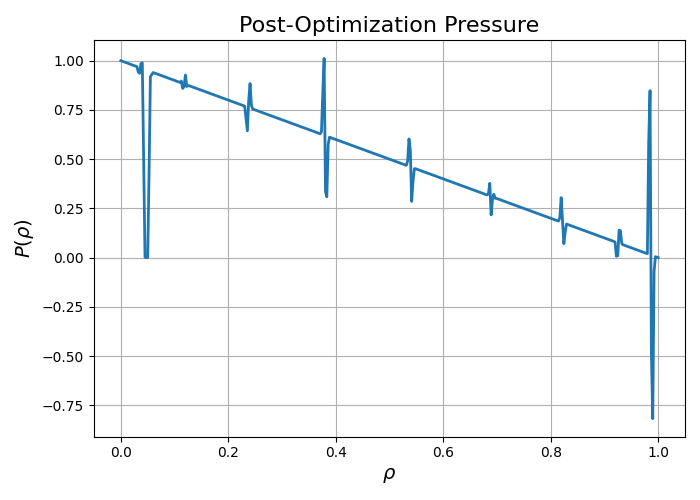
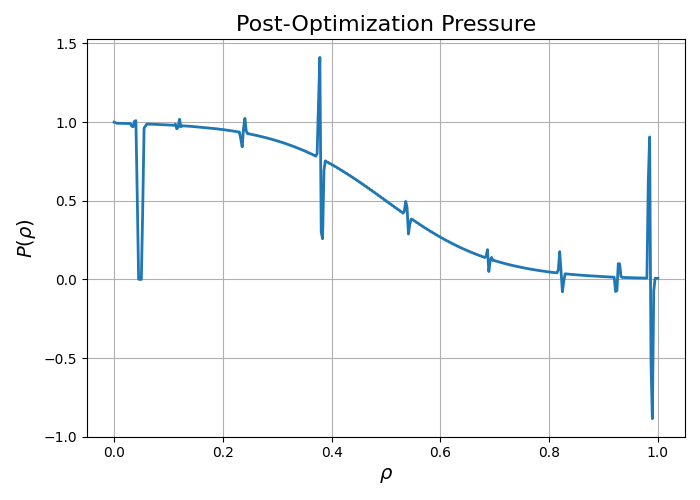
thorniness of pressure profile using hermite cubic splines doesn't seem to be a monotonicity weight problem. More likely, it's the interaction of Hermite cubic spline knots with the grid input to the monotonicity function.

diff --git a/Scratch/Runs/hermite/eq.py b/Scratch/Runs/hermite/eq.py
@@ -1,6 +1,12 @@
 #BASIC (FIXED BOUNDARY) EQUILIBRIUM + BASIC QS OPTIMIZATION TUTORIAL MODDED 
 #TO INCLUDE NON-FIXED PRESSURE PROFILE COEFFICIENTS 
 
+# Notes: 
+# Seems like bad practice to name Equilibrium() func inputs by the same name, e.g. iota = iota. 
+#Fix in other eq.py files.
+# 
+
+
 #Basic Equilibrium portion:
 #Import:
 import sys
@@ -31,23 +37,33 @@ surf= FourierRZToroidalSurface(
 )
 
 # Initializing Pressure:
-pressure = HermiteSplineProfile(
-    np.linspace(1,0,200), # num steps must match LinearGrid rho # in opt.py
-    np.r_[np.linspace(0,-1,100),np.linspace(-1,0,100)],
-    knots=None,
-)  
+def hermite_initializer():
+    rho = np.linspace(0,1,200) - 0.5
+    p_0 = 1 - ( 1 / (1 + np.exp(-10 * rho))) # logistic function to initialize with arbitrary k value
+    gradp_0 = p_0 * (1 - p_0) # exact derivative
+
+    initial = HermiteSplineProfile(
+        p_0, # num steps must match LinearGrid rho # in opt.py
+        gradp_0,
+        knots=None,
+    )  
+    return initial
+
+# Generating initial pressure and initial slope
+
+
 
 # Initializing iota:
 iota = PowerSeriesProfile([1, 0, 2]) 
 
 # Constructing Equilibrium: 
 eq = Equilibrium(
-    L=8,  # radial resolution
-    M=8,  # poloidal resolution
-    N=3,  # toroidal resolution
-    surface=surf,
-    pressure=pressure,
-    iota=iota,
+    L = 8,  # radial resolution
+    M = 8,  # poloidal resolution
+    N = 3,  # toroidal resolution
+    surface = surf,
+    pressure = hermite_initializer(),
+    iota = iota,
     Psi=1.0,  # total flux, in Webers
 )
 

diff --git a/Scratch/Runs/poly/opt.py b/Scratch/Runs/poly/opt.py
@@ -115,7 +115,7 @@ eq_opt, result = eq_init.optimize(
     ftol=5e-2,  # stopping tolerance on the function value
     xtol=1e-6,  # stopping tolerance on the step size
     gtol=1e-6,  # stopping tolerance on the gradient
-    maxiter=50,  # maximum number of iterations
+    maxiter=50, # maximum number of iterations
     options={
         "perturb_options": {"order": 2, "verbose": 0},  # use 2nd-order perturbations
         "solve_options": {

diff --git a/Scratch/Runs/hermite/opt.py b/Scratch/Runs/hermite/opt.py
@@ -1,7 +1,7 @@
 #BASIS FIXED BOUNDARY QS OPTIMIZATION MODDED TO TAKE HERMITE CUBIC SPLINES 
 #COEFFICIENTS AS OPTIMIZATION VARIABLES AND PRESSURE CONSTRAINTS AS ADDITIONAL OBJECTIVES
-#NOTES:
-#play with lowering ftol
+# Notes:
+# Play with lowering ftol.
 
 
 
